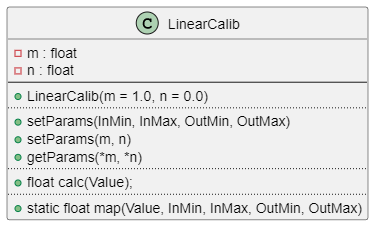
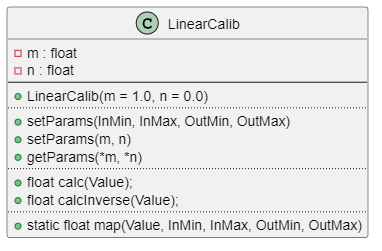
Inverse calculation added

diff --git a/src/linearcalib.h b/src/linearcalib.h
@@ -15,9 +15,11 @@ public:
 
   void setParams(const float f32_m, const float f32_n);
   int  setParams(const float f32_InMin, const float f32_InMax, const float f32_OutMin, const float f32_OutMax);
+
   void getParams(float *pf32_m, float *pf32_n);
 
   float calc(const float f32_Value);
+  float calcInverse(const float f32_Value);
 
   static float map(const float f32_Value, const float f32_InMin, const float f32_InMax, const float f32_OutMin, const float f32_OutMax);
 };

diff --git a/src/linearcalib.cpp b/src/linearcalib.cpp
@@ -52,6 +52,14 @@ float LinearCalib::calc(const float f32_Value)
 }
 
 
+float LinearCalib::calcInverse(const float f32_Value)
+{
+  if(mf32_m == 0.0)
+    return 0.0;
+  return (f32_Value-mf32_n)/mf32_m;
+}
+
+
 
 float LinearCalib::map(const float f32_Value, const float f32_InMin, const float f32_InMax, const float f32_OutMin, const float f32_OutMax)
 {

diff --git a/readme.md b/readme.md
@@ -86,7 +86,11 @@ Here the integration of the calibration class is shown with a simple Arduino Ske
 
 * `float calc(const float f32_Value);`
 
-  Calculates a calibrated value from a raw (sensor) value. This method uses the function `f(x) = m*x + n`
+  Calculates a calibrated value from a raw (sensor) value. This method uses the function `f(x) = m*x + n`.
+
+* `float calcInverse(const float f32_Value);`
+
+  Calculates a value using the inverse calibration function. This method uses the function `f-1(x) = (x-n)/m`. 
 
 * `static float map(const float f32_Value, const float f32_InMin, const float f32_InMax, const float f32_OutMin, const float f32_OutMax);`
 
@@ -120,6 +124,11 @@ This sequence diagram illustrates the initialization and the very basic usage.
 
 
 ## Changelog
+
+### 1.1.0
+
+* Inverse calculation added
+
 
 ### 1.0.0
 
